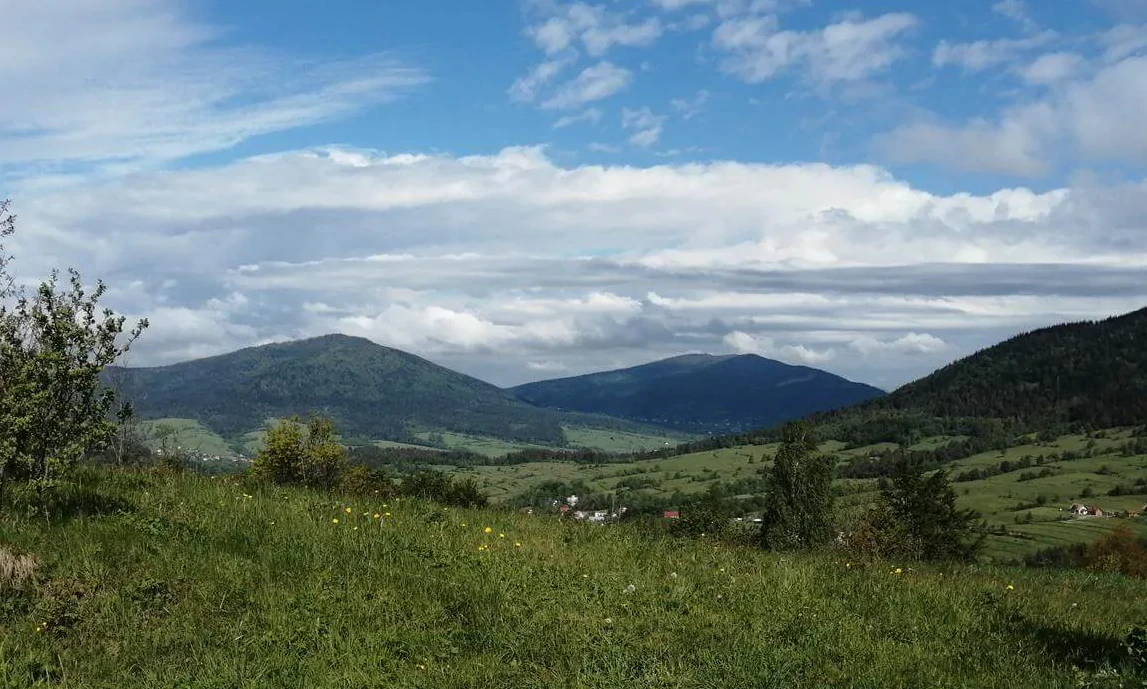
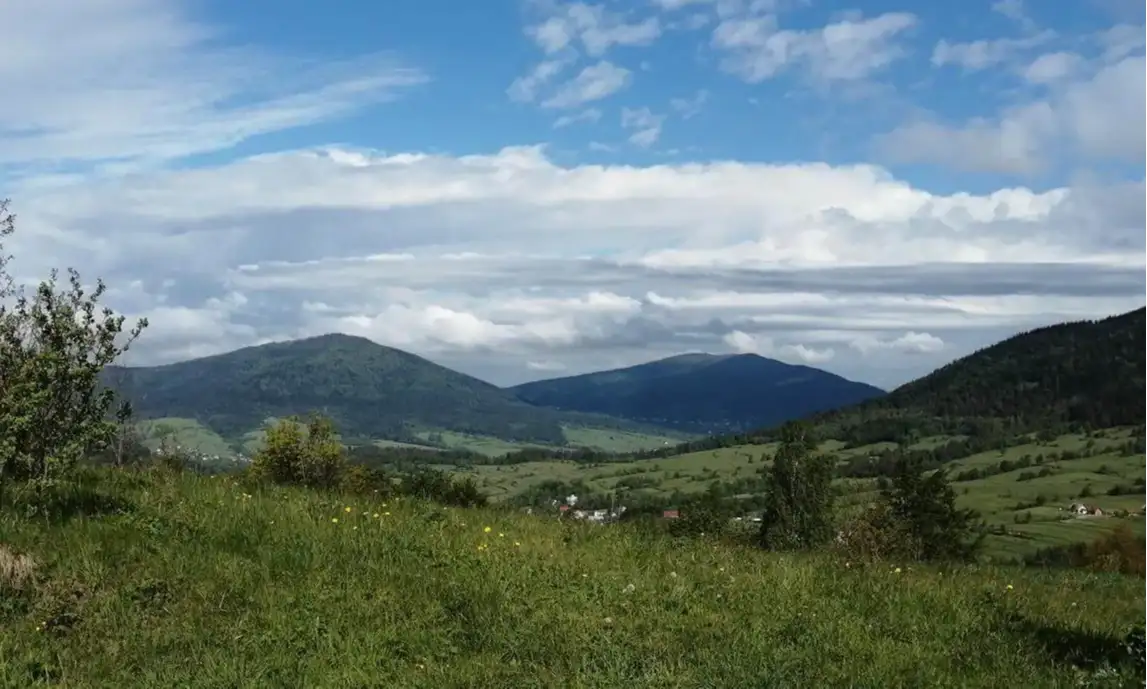
modify and compress image files

diff --git a/src/style/_layers.scss b/src/style/_layers.scss
@@ -50,35 +50,35 @@ p {
 
 .layer-bg {
   // background-image: url('https://s3-us-west-2.amazonaws.com/s.cdpn.io/272781/ilu_bg.jpg');
-  background-image: url('../images/mo7.png');
+  background-image: url('../images/mo7.webp');
   background-repeat: no-repeat;
   // background-position: center bottom;
 }
 .layer-1 {
-  background-image: url('../images/mo5.png');
+  background-image: url('../images/mo5.webp');
   background-repeat: no-repeat;
 	// background-position: left bottom;
 }
 .layer-2 {
-  background-image: url('../images/mo4.png');
+  background-image: url('../images/mo4.webp');
   background-repeat: no-repeat;
   // background-position: right bottom;
 }
 .layer-3 {
-  background-image: url('../images/mo3.png');
+  background-image: url('../images/mo3.webp');
   background-repeat: no-repeat;
 	// background-position: right bottom;
 }
 .layer-4 {
-  background-image: url('../images/mo2.png');
+  background-image: url('../images/mo2.webp');
   background-repeat: no-repeat;
 }
 // .layer-5 {
-//   background-image: url('../images/mo2.png');
+//   background-image: url('../images/mo2.webp');
 //   background-repeat: no-repeat;
 // }
 .layer-overlay {
-  background-image: url('../images/mo1.png');
+  background-image: url('../images/mo1.webp');
   background-repeat: no-repeat;
 }
 

diff --git a/gatsby-config.js b/gatsby-config.js
@@ -22,8 +22,8 @@ module.exports = {
         name: `gatsby-starter-default`,
         short_name: `starter`,
         start_url: `/`,
-        background_color: `#663399`,
-        theme_color: `#663399`,
+        background_color: `#247f17`,
+        theme_color: `#247f17`,
         display: `minimal-ui`,
         icon: `src/images/gatsby-icon.png`, // This path is relative to the root of the site.
       },
@@ -33,3 +33,10 @@ module.exports = {
     // `gatsby-plugin-offline`,
   ],
 }
+exports.onCreateWebpackConfig = ({ actions, stage }) => {
+  if (stage === 'build-javascript') {
+    actions.setWebpackConfig({
+      devtool: false
+    })
+  }
+};

diff --git a/src/components/seo.js b/src/components/seo.js
@@ -74,7 +74,7 @@ function SEO({ description, lang, meta, title }) {
 }
 
 SEO.defaultProps = {
-  lang: `en`,
+  lang: `pl`,
   meta: [],
   description: ``,
 }
